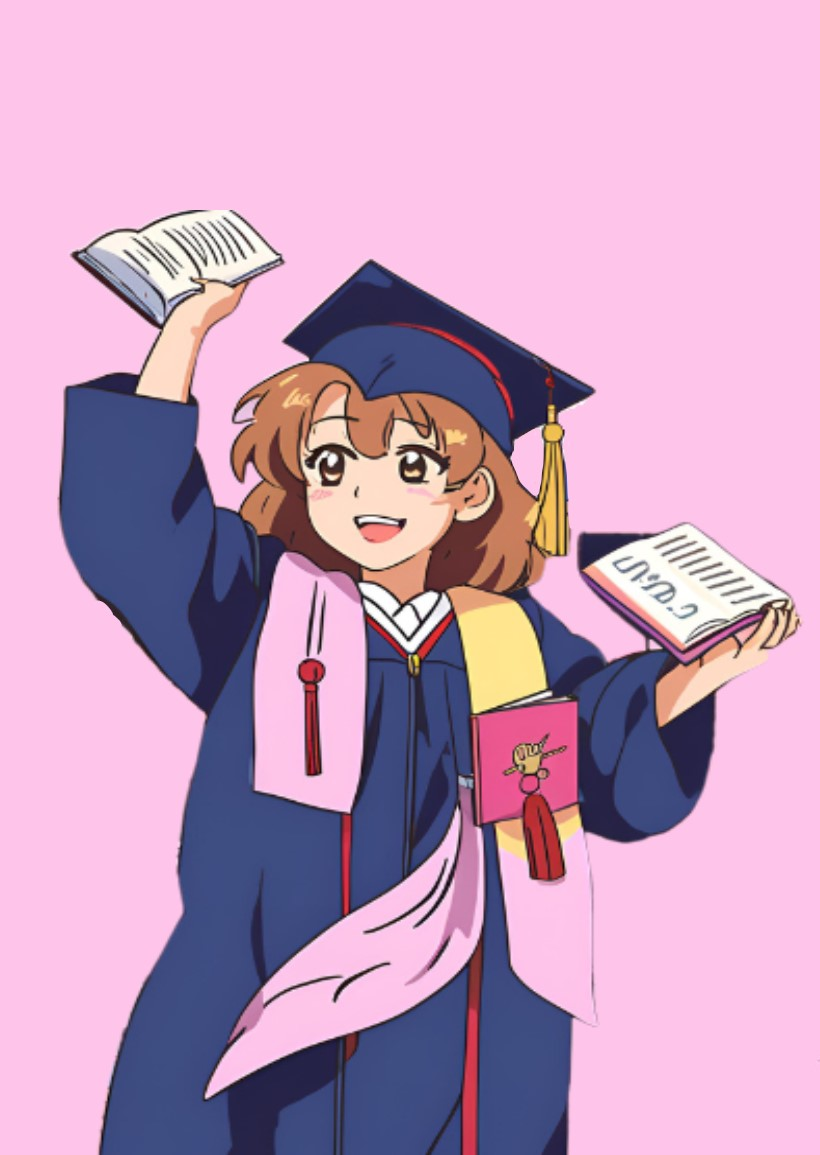
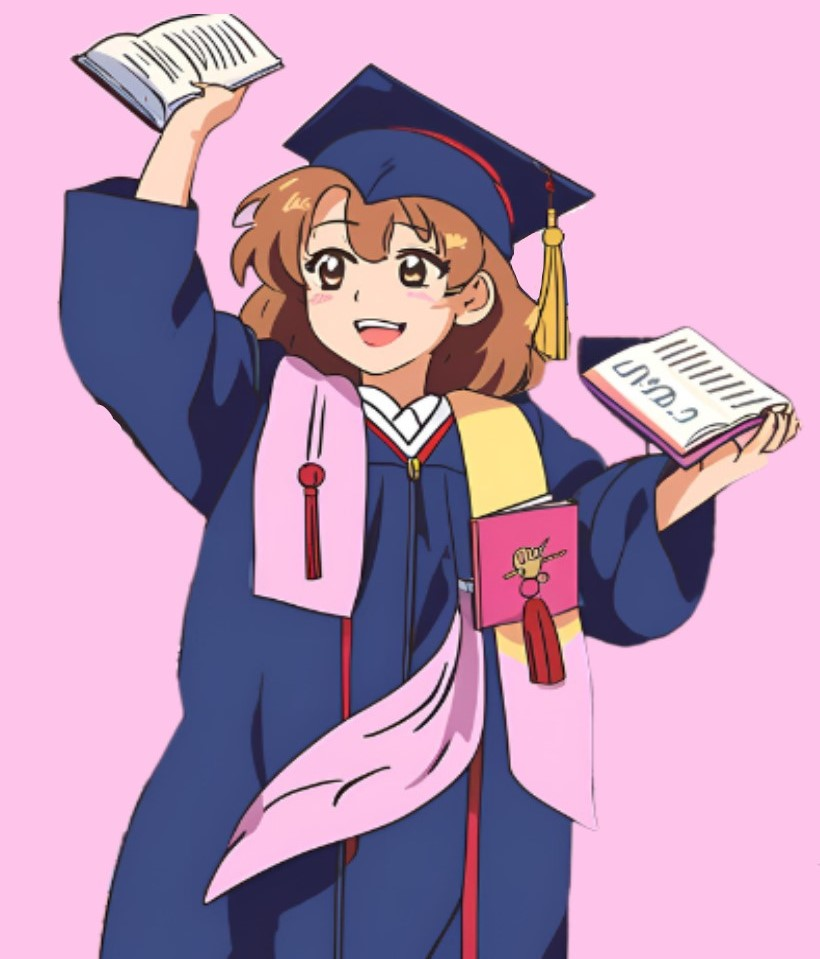
working on student/professor page

diff --git a/lib/main.dart b/lib/main.dart
@@ -1,52 +1,81 @@
+import 'package:approjectfront/student/Studentprofessor.dart';
 import 'package:flutter/material.dart';
 
 void main() {
-  runApp(const MaterialApp(home: WelcomePage(),));
+  runApp(const MaterialApp(home: WelcomePage(),
+  debugShowCheckedModeBanner: false,));
 }
 
 class WelcomePage extends StatelessWidget {
   const WelcomePage({super.key});
 
+Route _createRoute(){
+  return PageRouteBuilder(
+      pageBuilder: (context, animation, secondaryAnimation) => StudentProfessor(),
+    transitionsBuilder: (context, animation, secondaryAnimation, child){
+        var begin = Offset(1.0, 0.0);
+        var end = Offset.zero;
+        var curve = Curves.easeInOut;
+        var tween = Tween(begin: begin , end: end).chain(CurveTween(curve: curve));
+        var offsetAnimation = animation.drive(tween);
+        return SlideTransition(
+            position: offsetAnimation,child: child);
+    }
+  );
+}
+
   @override
   Widget build(BuildContext context) {
     return Scaffold(
+      appBar: AppBar(
+        backgroundColor: const Color.fromARGB(245, 239, 176, 216),
+        shadowColor: const Color.fromARGB(100, 51, 22, 50) ,
+      ),
       body: Container(
         decoration: const BoxDecoration(color:  Color.fromARGB(255, 254, 196, 234)),
         child:  Stack(
           children: <Widget> [
+            GestureDetector(
+              onTap: (){
+                Navigator.of(context).push(_createRoute());
+              },
+            ),
             Positioned(
               left: 60,
-              top: 120,
+              top: 60,
               child: Text(
               "Welcome to" ,
                 style: TextStyle(
                 color: Color.fromARGB(255, 24, 21, 66) ,
                 fontSize: 40,
-                fontWeight: FontWeight.w900 ,
-                fontStyle: FontStyle.italic ,
+                fontWeight: FontWeight.w200,
+                fontFamily: 'merich',
             ),
             )),
             Positioned(
               left: 150,
-              top: 155,
+              top: 95,
               child: Text(
                 "UniHub",
                 style: TextStyle(
                   color: Color.fromARGB(255, 24, 21, 66) ,
-                  fontSize: 60,
+                  fontSize: 66,
                   fontWeight: FontWeight.w900 ,
-                  fontStyle: FontStyle.italic ,
+                  fontFamily: 'merich',
+                  fontStyle: FontStyle.italic,
                 ),
               )),
             Positioned(
-              left: 0,
+              right: 0,
               bottom: 0,
-              child: SizedBox(child: Image.asset('images/new.png' , fit:BoxFit.fill,)
+              height: 520,
+              width: 400,
+              child: SizedBox(child: Image.asset('images/welcome2.png' , fit:BoxFit.fill,)
             )),
+
           ],
         ),
       )
-
     );
   }
 }

diff --git a/lib/student/Studentprofessor.dart b/lib/student/Studentprofessor.dart
@@ -1,6 +1,7 @@
 import 'package:flutter/material.dart';
 void main() {
-  runApp(const MaterialApp(home: StudentProfessor(),));
+  runApp(const MaterialApp(home: StudentProfessor(),
+  debugShowCheckedModeBanner: false,));
 }
 
   class StudentProfessor extends StatelessWidget {
@@ -9,8 +10,33 @@ void main() {
   @override
   Widget build(BuildContext context) {
     return Scaffold(
+       appBar: AppBar(
+          backgroundColor: const Color.fromARGB(245, 239, 176, 216),
+          shadowColor: const Color.fromARGB(100, 51, 22, 50) ,
+       ),
        body: Container(
          decoration: const BoxDecoration(color:  Color.fromARGB(255, 254, 196, 234)),
+         child:  Stack(
+           children:<Widget> [
+             Positioned(
+               top: 75,
+               left: 85,
+               child: Text(
+                 "              are you \n Student or Professor? " ,
+                 style: TextStyle(
+                   color: Color.fromARGB(255, 24, 21, 66) ,
+                   fontSize: 30,
+                   fontWeight: FontWeight.w700,
+                   fontFamily: 'chunck',
+                 ),
+               )
+             ),
+             Positioned(
+                 top: 190,
+                 left: 40,
+                 child: Image.asset('images/students.png'))
+           ],
+         ),
 
        )
 
